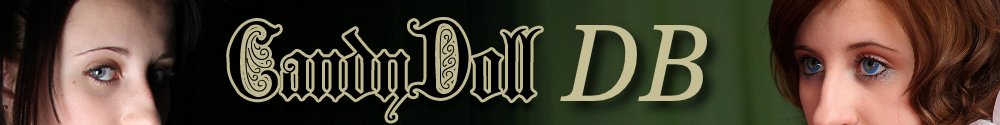
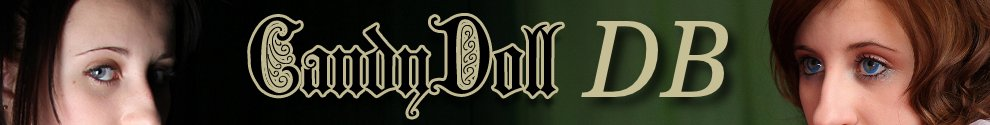
Lay-out now 990px instead of 1000px wide, faulty errorscreen-css

diff --git a/style.css b/style.css
@@ -48,17 +48,6 @@ h2{
 	background-repeat: no-repeat;
 }
 
-div#ErrorContainer{
-	background-color: #000000;
-	display: none;
-	height: 100%;
-	left: 0;
-	position: absolute;
-	top: 0;
-	width: 100%;
-	z-index: 3;
-}
-
 table{
 	width: 100%;
 }
@@ -82,13 +71,14 @@ table td em{
 
 div#Wrapper{
 	background-image: url('images/background_container.png');
+	background-repeat: repeat-y;
 	margin: 0 auto;
 	min-height: 200px;
-	width: 1014px;
+	width: 1000px;
 }
 div#Header{
 	background-image: url('images/background_header.jpg');
-	background-position: 5px 0;
+	background-position: 1px 0;
 	background-repeat: no-repeat;
 	height: 125px;
 }
@@ -132,7 +122,7 @@ ul#TopNavigation li a + ul:hover{
 
 div#Content{
 	line-height: 15pt;
-	padding: 20px 15px 30px 15px;
+	padding: 20px 20px 20px 15px;
 }
 
 div#Content table{
@@ -141,7 +131,7 @@ div#Content table{
 
 div#Footer{
 	background-image: url('images/background_footer.jpg');
-	background-position: 5px 0;
+	background-position: 1px 0;
 	background-repeat: no-repeat;
 	clear: both;
 	height: 100px;
@@ -165,10 +155,10 @@ div.cddbstuff a{
 }
 
 div.cddbstuff{
-	left: 834px;
+	left: 810px;
 }
 div.userstats{
-	left: 658px;
+	left: 634px;
 }
 
 form .FormRow{
@@ -280,6 +270,17 @@ a.Button:focus, a.Button:hover{
 }
 
 /* Errorlist */
+div#ErrorContainer{
+	background-color: #000000;
+	display: none;
+	height: 100%;
+	left: 0;
+	position: absolute;
+	top: 0;
+	width: 100%;
+	z-index: 4;
+}
+
 div.ErrorList{
 	background-color: #7b000e;
 	background-image: url('images/error_gradient.png');
@@ -294,7 +295,7 @@ div.ErrorList{
 	position: absolute;
 	top: 150px;
 	width: 520px;
-	z-index: 4;
+	z-index: 5;
 }
 div.ErrorList ul{
 	background-image: url('images/error.png');
@@ -315,7 +316,7 @@ div.ErrorList ul li{
 	float: left;
 	margin: 0 20px 20px 20px; 
 	padding: 15px 5px 5px 5px;
-	width: 275px;
+	width: 270px;
 }
 .ThumbImageWrapper{
 	margin: 0 auto;

diff --git a/js/fwiep.js b/js/fwiep.js
@@ -16,7 +16,7 @@ if (!/android|iphone|ipod|series60|symbian|windows ce|blackberry/i.test(navigato
 
 function ResizeContent(){
 	$('#Content').css('min-height',
-		($(window).height() - 275) + 'px'
+		($(window).height() - 265) + 'px'
 	);
 }
 
@@ -42,7 +42,7 @@ $(function(){
 		}
 	});
 
-	$('.ErrorList').css('margin-left', (($(window).width()/2) - (568/2)) + 'px').fadeIn(400).click(CloseOverlay);
+	$('.ErrorList').fadeIn(400).click(CloseOverlay);
 
 	$('a[rel^=external]').attr('target', 'new');
 	$('a[href=#]').click(function(){ return false; });
